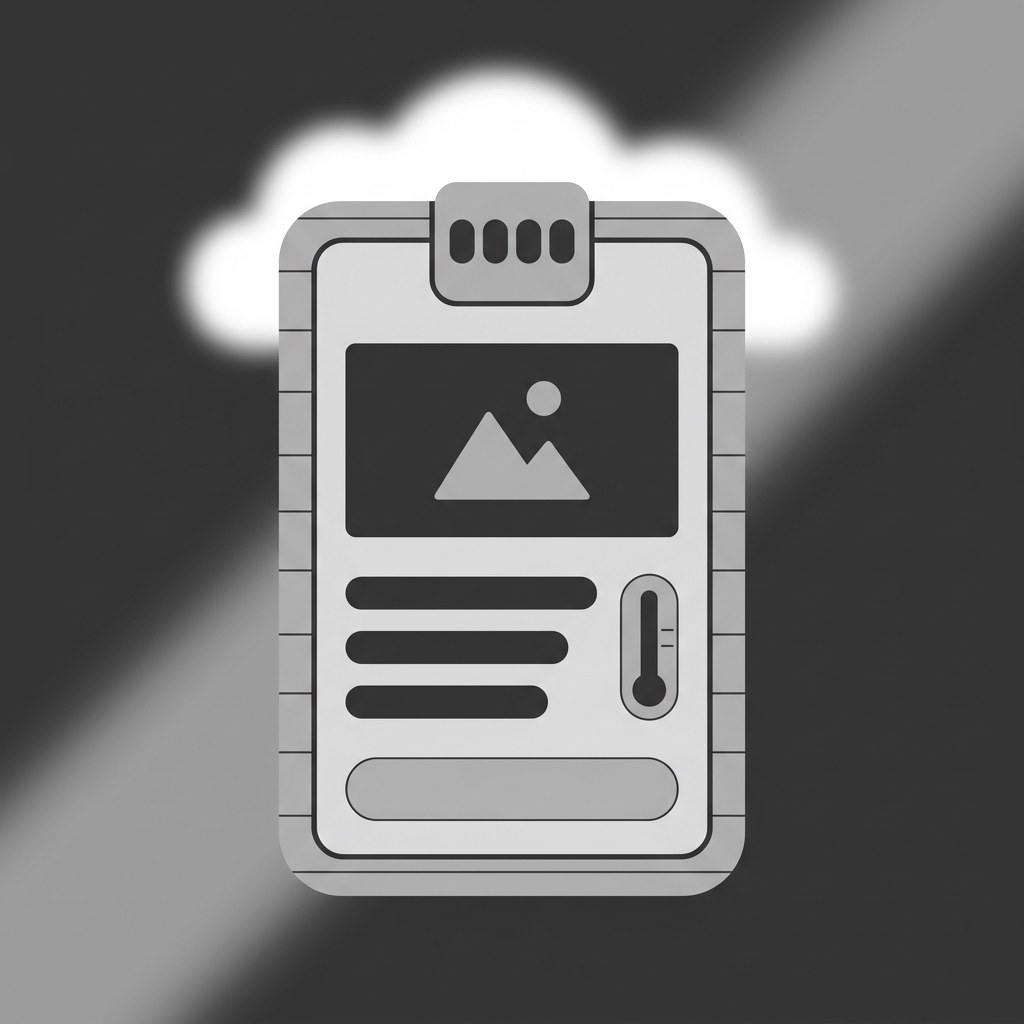
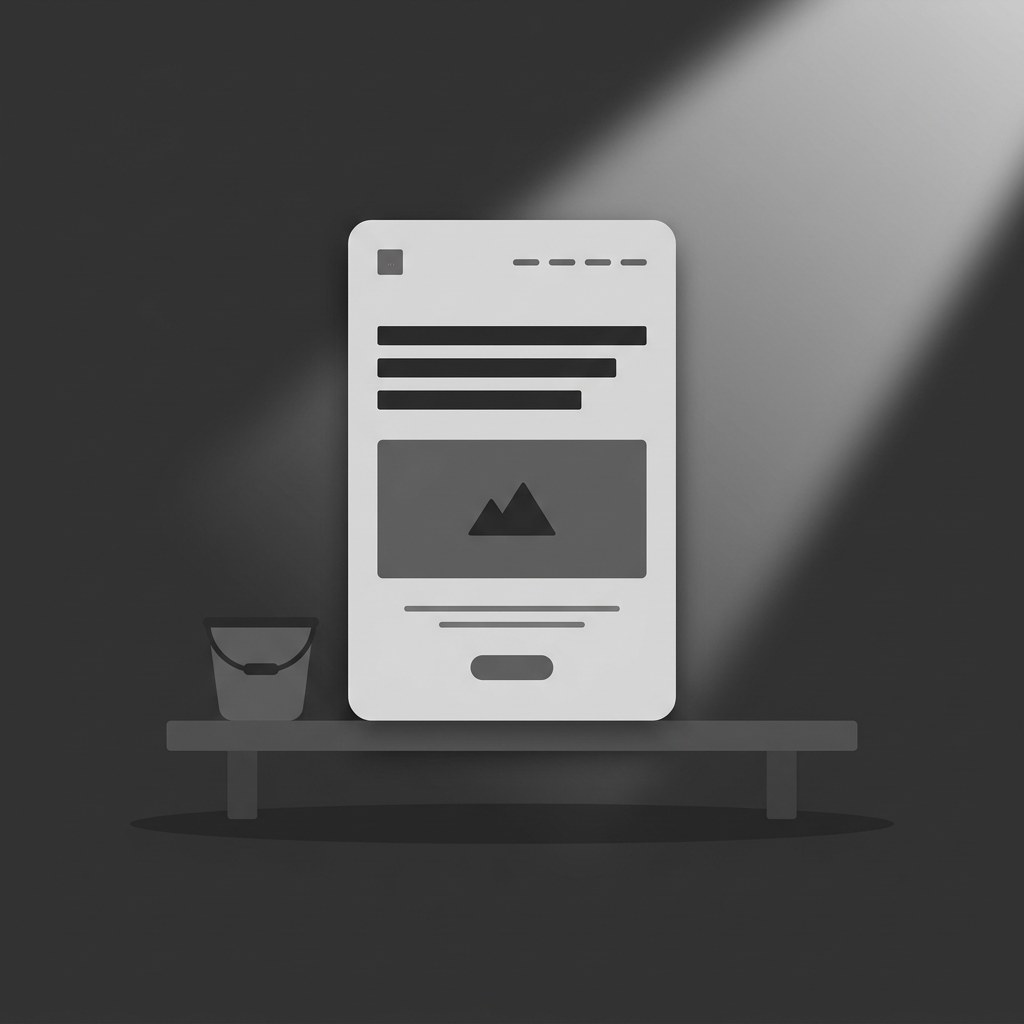
Concepts: drop AI-looking three, rework Löyly; record the rule
Claude-Session: https://claude.ai/code/session_01UTJuAjWUwzzxbHTx65gk4g

diff --git a/skills/premium-wow-design/references/prototype-kit.md b/skills/premium-wow-design/references/prototype-kit.md
@@ -49,6 +49,7 @@ Reels: Reson "The future of listening" (portrait with headphones, rail of icons,
 - Before handing over, compare against the kit: if the site looks like an "ordinary landing page" next to it, the frame/scene/product-breaks-the-frame layer is missing.
 
 ## My own concepts (page «Новые концепты (Claude)» in the kit, files in projects/concepts/)
-New principle in the kit's language: **the frame is an object from the client's world**, not just a card.
-Kiln & Co: clay slab, menu pressed into a fingerprint · Sève: wine label on a bottle, glass-stain ghost · Petal House: a stem grows through the notches · Hale: the frame is the reformer itself, springs hold the next block · Löyly House: cedar planks, steam spills past the frame, thermometer card · Crumb: the top of the frame is a loaf dome, bread between the letters · Swell School: wave-line edge, the surfer rides out, tide-chart strip · Margin: an open book, contents-page menu, ribbon as the scroll cue.
-Do not repeat these: every new concept looks for its own object.
+New principle in the kit's language: **the frame is an object from the client's world**.
+Approved: Kiln & Co (clay slab, fingerprint), Sève (wine label on a bottle), Petal House (stem through the notches), Hale (the frame is the reformer). Löyly House v2: a matte card on a sauna shelf (v1 was 50/50).
+**Rejected as "AI-looking"** (Veronika, 22.10): Crumb (bread between the letters), Swell (surfer on the wave), Margin (open book). Why: glossy 3D render, the object is too literal and toy-like, everything is centred and too perfect, a pretty "cloud of steam".
+Rule: the concept should read like a real photo of a real object (matte, wood grain, ordinary items around it), and the UI is flat and calm. If it looks like a render or a toy, redo it.
